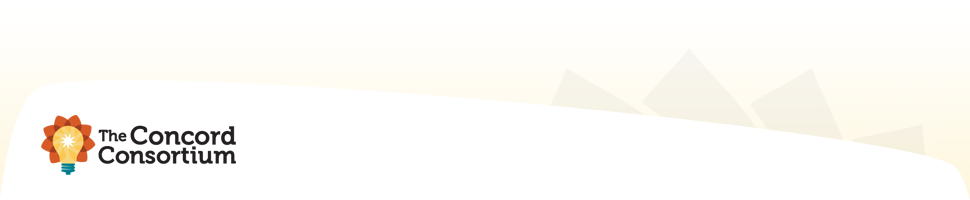
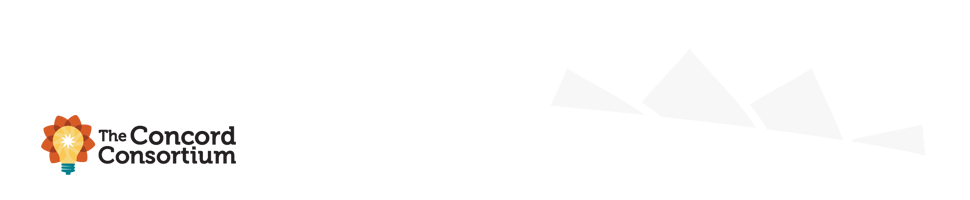
Fixed footer graphic and background gradient misalignment

Changed region(s): [[0.9278, 0.72, 1.0, 0.99], [0.0, 0.72, 0.0309, 0.87]]

diff --git a/app/assets/stylesheets/web/app.scss b/app/assets/stylesheets/web/app.scss
@@ -1112,7 +1112,7 @@ ul.quiet_list {
 
 /* FOOTER */
 #footer {
-  background: transparent image-url("styles/bg-footer-gradient.png") repeat-x left 58px;
+  background: transparent image-url("styles/bg-footer-gradient.png") repeat-x left bottom;
 	clear: both;
   color: #3f3f3f;
   height: 200px;
